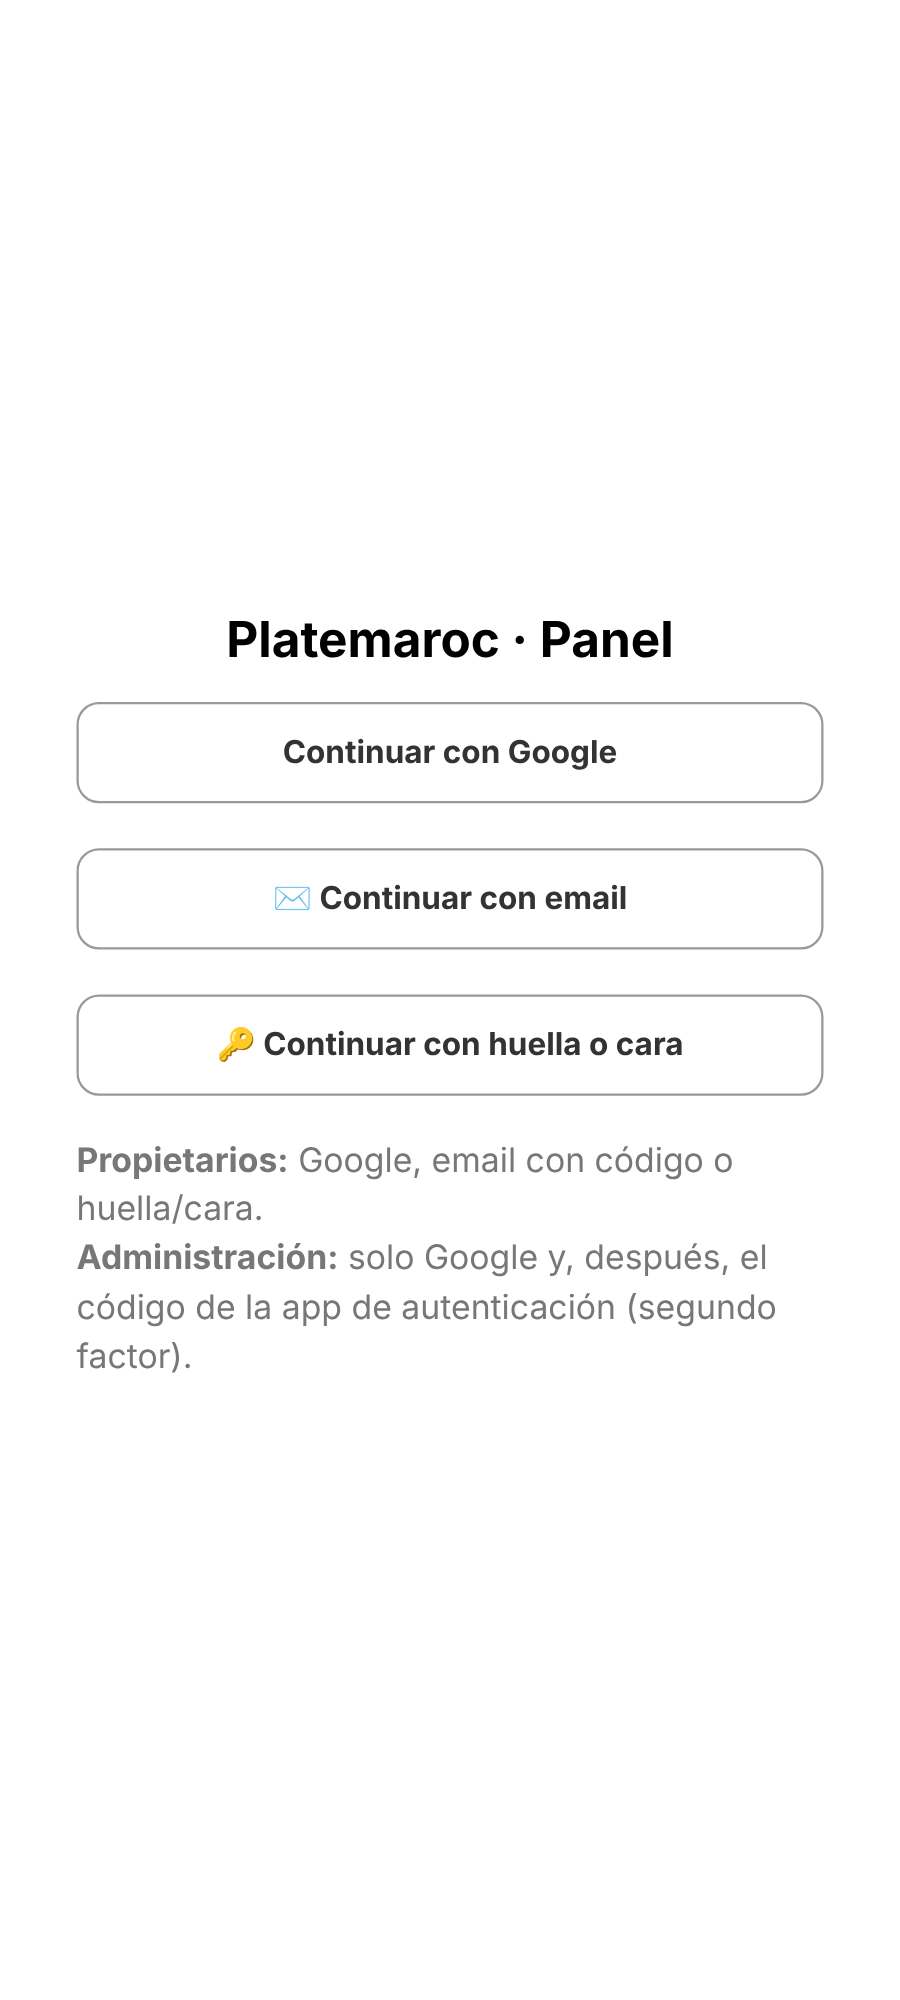
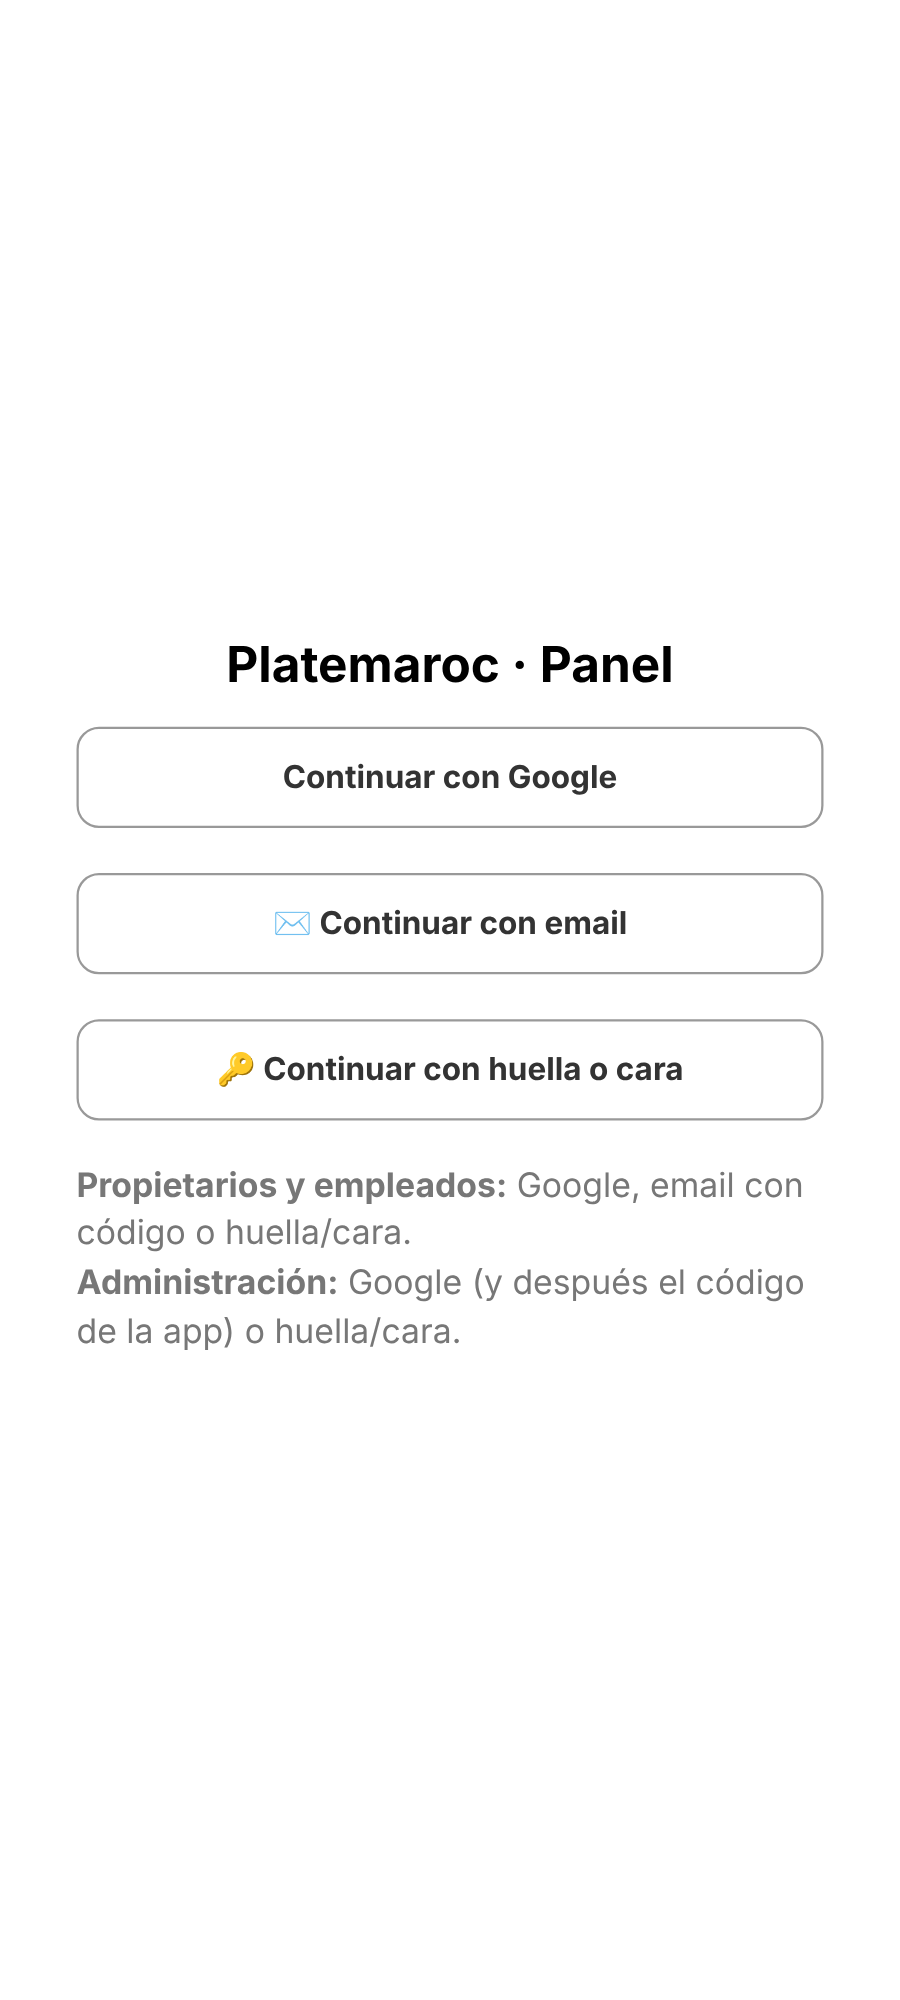
Panel: huella o cara para administración y propietarios, y rol Empleado solo para reservas
Claude-Session: https://claude.ai/code/session_01VzQwrb3E36RfY68ihR5Gb4

Changed region(s): [[0.0622, 0.434, 0.8711, 0.682], [0.2489, 0.31, 0.7467, 0.403]]

diff --git a/docs/01-documento-maestro-operacion.md b/docs/01-documento-maestro-operacion.md
@@ -462,7 +462,8 @@ las protegen la moderación previa y los límites). Todas las cuentas entran sin
 |---|---|
 | Usuarios (reseñas) | Google, email con código y **huella o cara**. Pantalla «Entrar» con botón **«Crear cuenta»**, que lleva a su propia pantalla (nombre visible, opción de alta y aceptación de condiciones). |
 | Propietarios (MVP) | Google, email con código y **«Continuar con huella o cara»**, en la misma pantalla de acceso del panel. Sin segundo factor obligatorio. La titularidad del local se verifica por vías sin coste. |
-| Administración | **Solo «Continuar con Google»** (cuentas de Google autorizadas) y **siempre segundo factor** con app de autenticación (decisión del titular, 01-11-2026). |
+| Administración | **«Continuar con Google»** (cuentas autorizadas) seguido del código de la app de autenticación, **o «Continuar con huella o cara»** (la passkey ya es un factor fuerte). Decisión del titular, 01-11-2026. |
+| Empleados de restaurante (MVP) | Google, email con código o huella o cara. **Solo pueden ver, confirmar y marcar «No disponible» las reservas de su local; nada más.** Los invita el propietario por email desde «Empleados»; el propietario puede quitarles el acceso. |
 
 Reglas comunes:
 
@@ -524,7 +525,7 @@ La tabla de reservas se recreará en la base de datos en la fase de desarrollo (
 Vegetariano (especialidad), pago con tarjeta, terraza, idiomas del personal (es/en/fr), aviso de horario de Ramadán,
 foto de la entrada del local y bloque «Cerca de aquí». Sin alcohol (§1). Cualquier otro dato necesita aprobación del titular.
 
-Total: **28 piezas de diseño** (56 pantallas: móvil y ordenador), contando la plantilla de reserva y la sección de reservas del panel + 3 archivos técnicos sin diseño (`sitemap.xml`, `robots.txt`, manifiesto PWA).
+Total: **29 piezas de diseño** (58 pantallas: móvil y ordenador), contando la plantilla de reserva y la sección de reservas del panel + 3 archivos técnicos sin diseño (`sitemap.xml`, `robots.txt`, manifiesto PWA).
 
 ### Web: 12 plantillas
 
@@ -547,7 +548,7 @@ Total: **28 piezas de diseño** (56 pantallas: móvil y ordenador), contando la 
 
 Cabecera, pie de página (navegación secundaria) y barra inferior del móvil.
 
-### Panel: 11 plantillas
+### Panel: 12 plantillas
 
 1. Acceso: solo «Continuar con Google» y después el segundo factor.
 2. **Escritorio, con la moderación de reseñas y fotos dentro** (no hay sección de moderación aparte).
@@ -598,11 +599,15 @@ Barra lateral y cabecera del panel.
 - SMS retirado: no es necesario para las reseñas; cuentas con Google, email con código y passkey (§18).
 - Reservas: solo locales con «Acepto reservas»; acceso de propietarios al panel en el MVP (Google, email con código o passkey); todos los locales tienen propietario registrado, que confirma las reservas; el titular se encarga del tema de las reservas (§2, §18 bis).
 - Passkey: botón «Continuar con huella o cara» (§18).
+- Huella o cara también para propietarios y administración (§18).
+- Rol Empleado en el panel: solo reservas de su local (ver, confirmar, «No disponible»); los invita el propietario (§18, §20).
 - Moderación automática 3 veces al día (§6).
 - Idioma: base español; al entrar, el del navegador si es es/en/fr, y si no, español (§13).
 - Favoritos en el MVP, disponibles sin conexión; nueva pestaña «Favoritos» en «Mi cuenta» y botón ♡ en la info del local (§12).
 - Panel único con roles: el propietario usa la misma plantilla del panel, limitada a su local; la sección Reservas está en el panel (§20).
 - Reservas recuperadas con la opción gestionada: solicita el usuario, confirma el propietario, aviso por email (§18 bis).
+    - rol **Empleado**: el mismo panel con una sola sección, **Reservas**, de su local: ver, confirmar y «No disponible». Nada más.
+12. **Empleados** (solo propietario): invitar empleados por email, reenviar o anular la invitación y quitar el acceso.
 - Web: botón «Crear cuenta» en la pantalla Entrar, con pantalla propia (§18). Panel: solo Google (§18).
 - Panel: moderación dentro del escritorio; nuevo local con información, fotos, menú y redirecciones en pestañas (§20). Inventario: 26 piezas, 52 pantallas.
 - Inventario de diseño: 28 piezas, con un único listado para todas las listas, incluidas ciudades y búsqueda (§20).

diff --git a/diseno/LEEME.md b/diseno/LEEME.md
@@ -25,7 +25,8 @@ Móvil: 900 × 2000 px. Ordenador: 1280 × 760 px. Cada carpeta tiene `movil/` y
 | `panel-03-listado` | Listado genérico |
 | `panel-04-formulario-local` | Nuevo local: Información, ES, EN, FR, Fotos, Menú, Redirecciones, Historial |
 | `panel-05-fotos` a `panel-10-ajustes` | Fotos, redirecciones, usuarios, auditoría, importar/exportar, ajustes |
-| `panel-11-reservas` | Reservas en el panel: vista de administración (todos los locales) y vista del propietario (solo su local) |
+| `panel-11-reservas` | Reservas en el panel: vista de administración (todos los locales), del propietario (su local) y del empleado (solo reservas) |
+| `panel-12-empleados` | El propietario invita empleados y les quita el acceso |
 | `panel-esqueleto` | Barra lateral y cabecera del panel |
 
 El acceso al panel está en `web-07-pantallas-login`. Cuando cambie una decisión, se regeneran los bocetos afectados.
